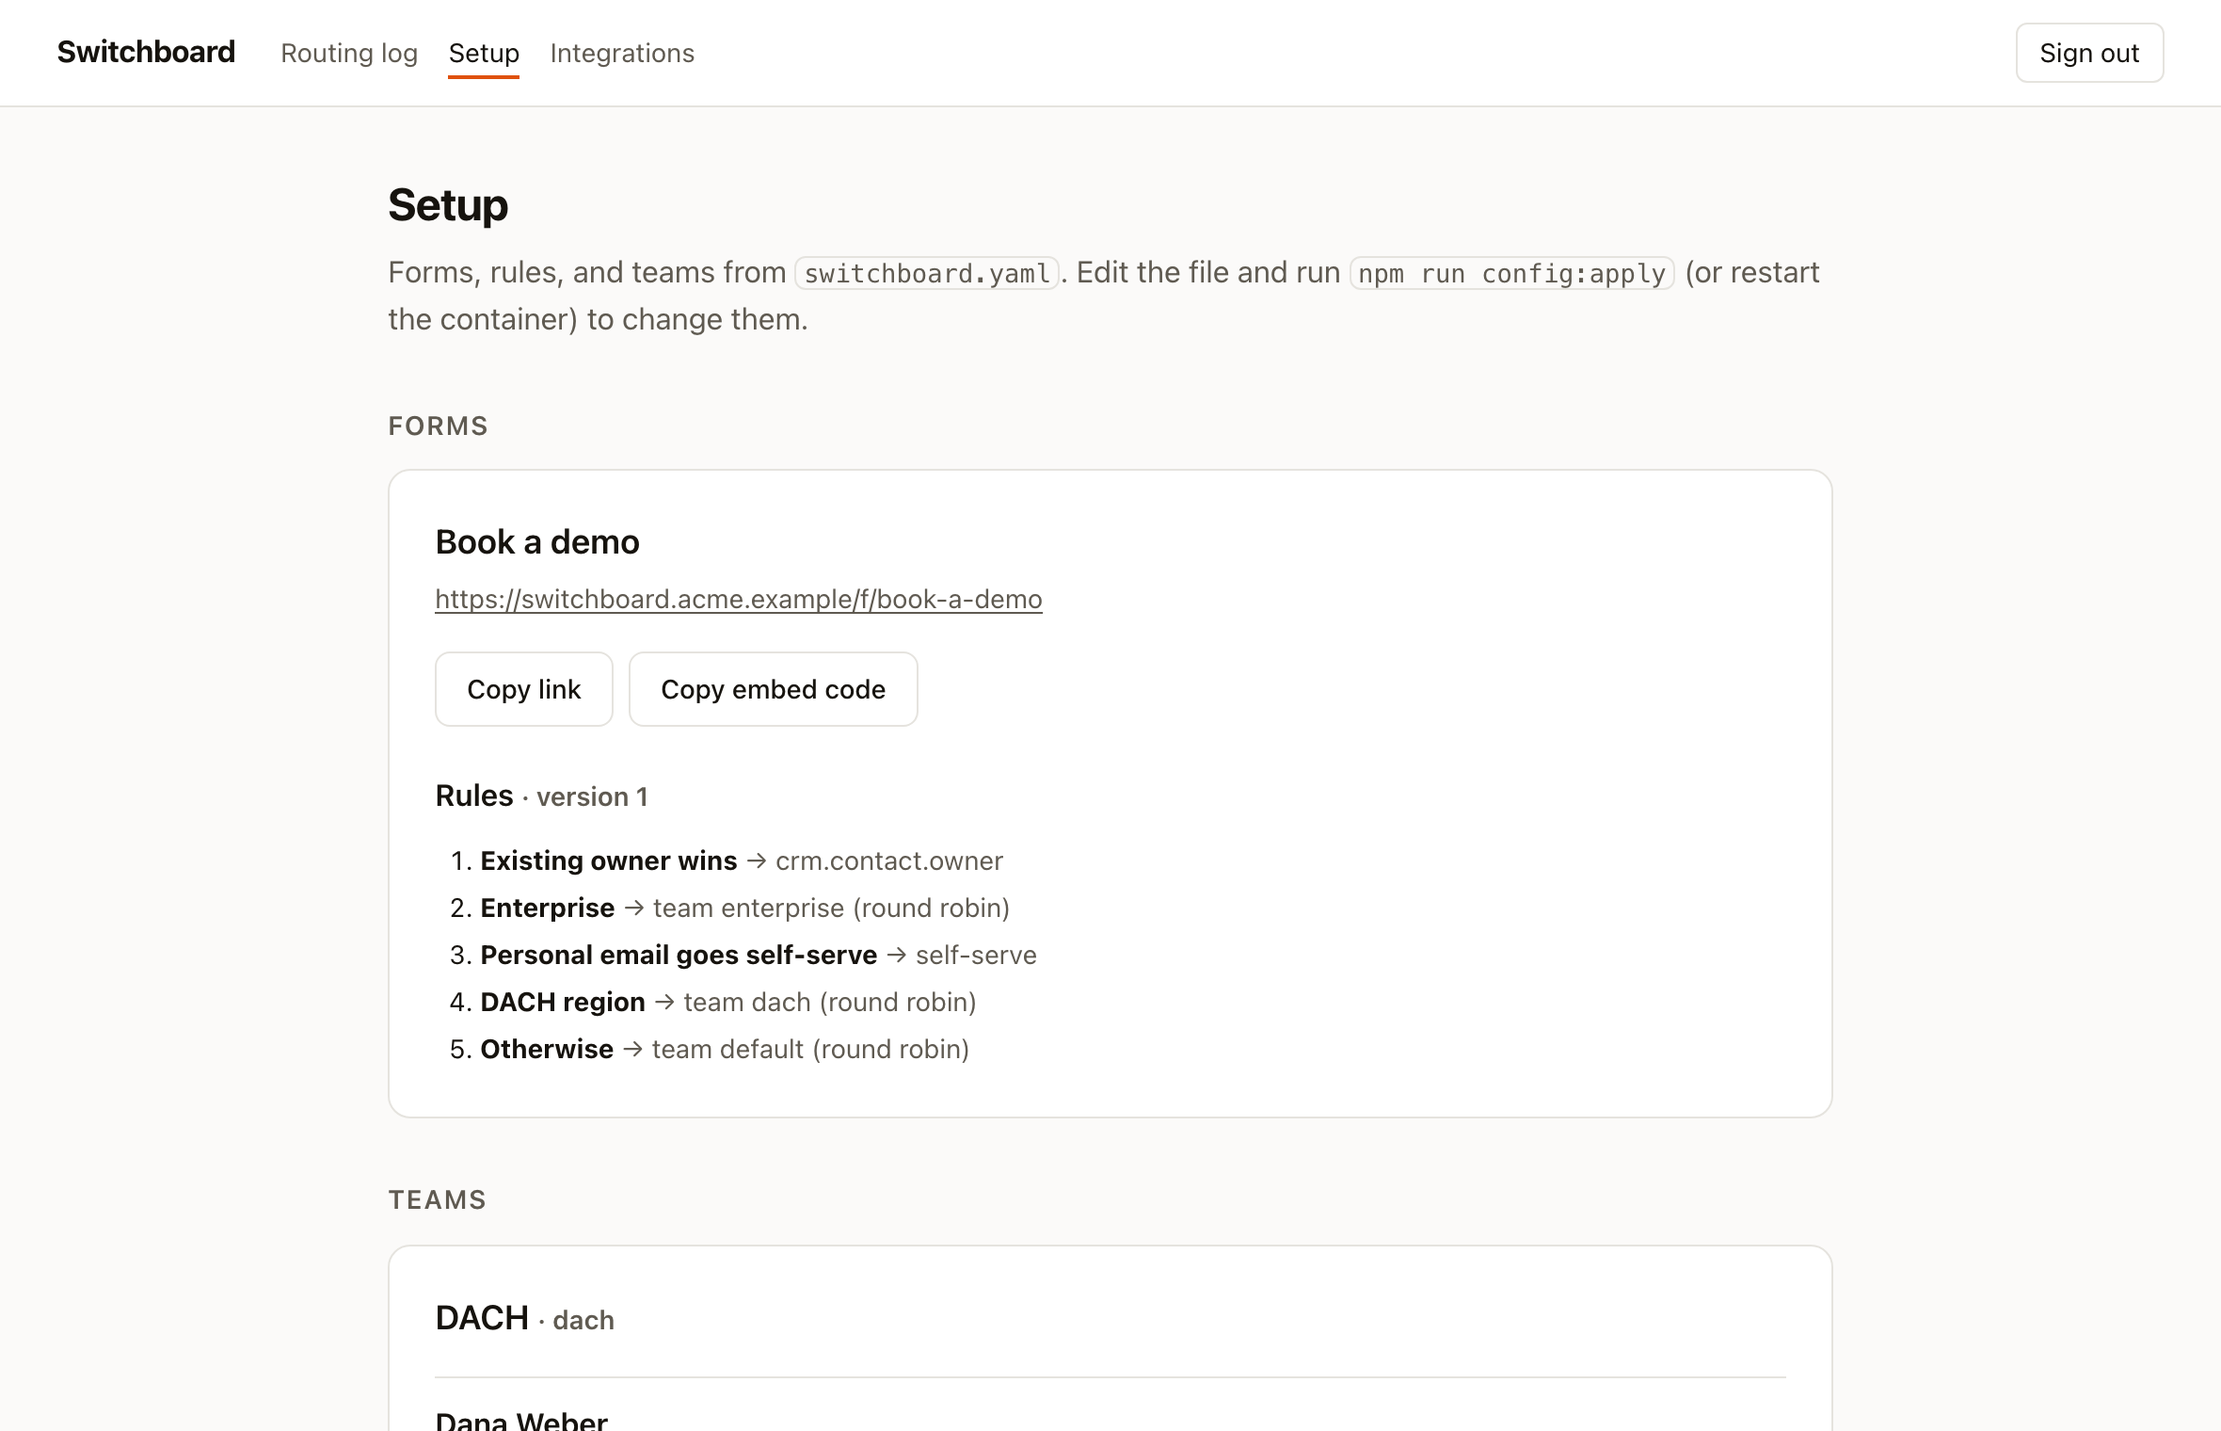
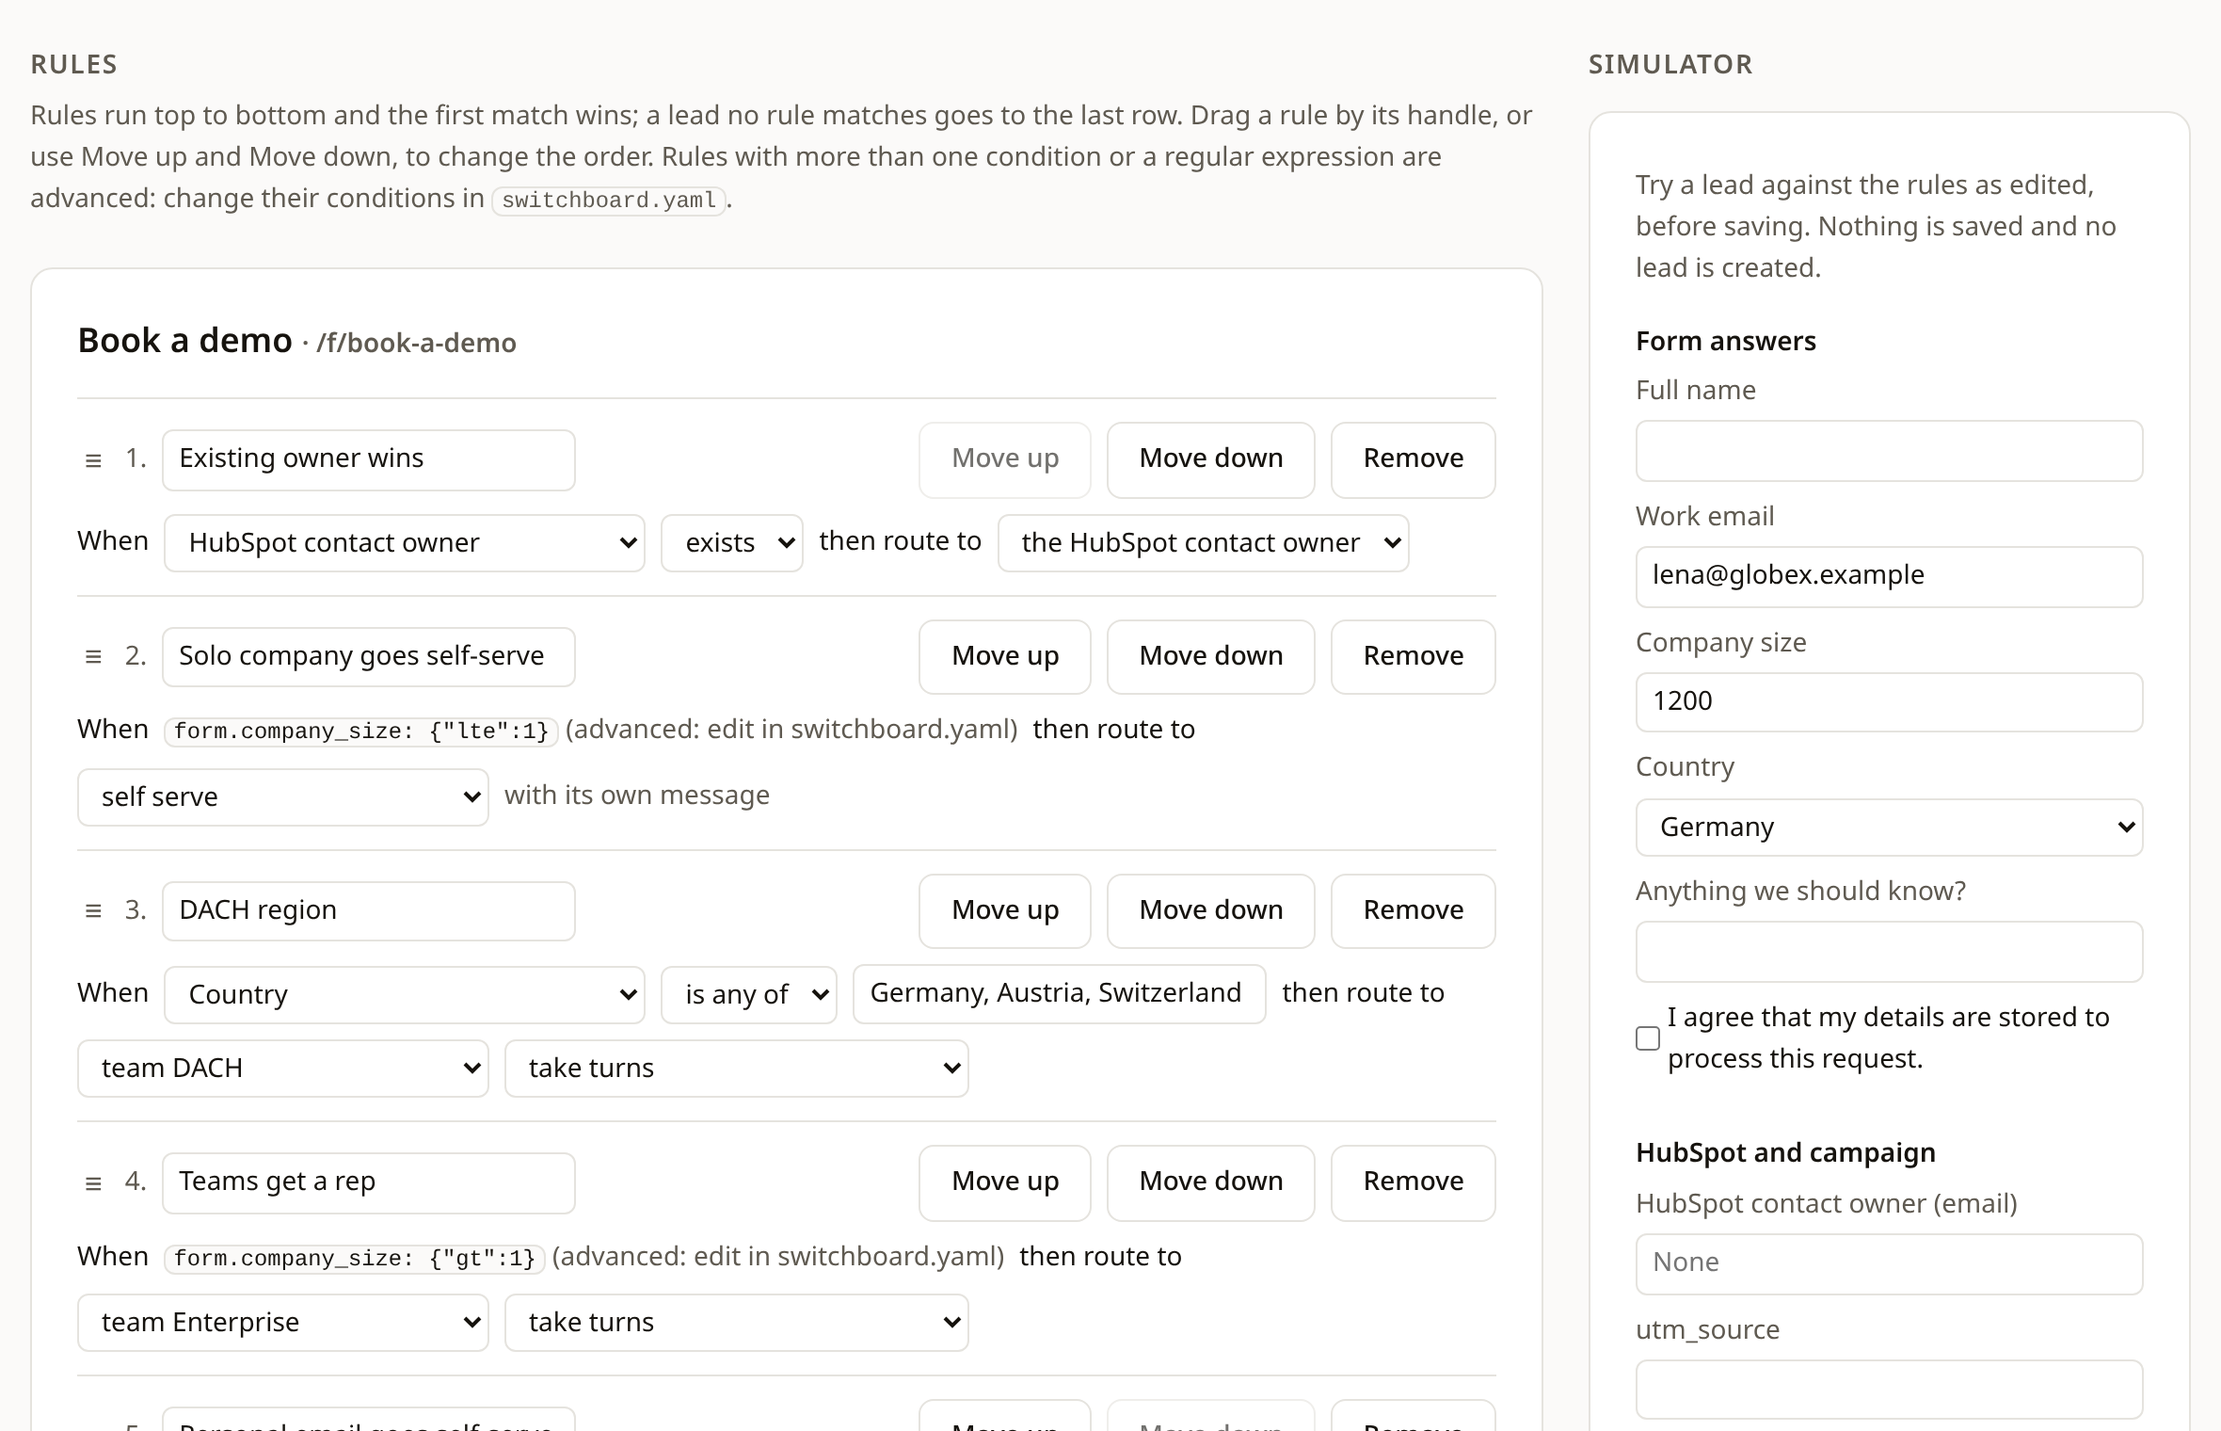
Update site and docs for builder-based setup

diff --git a/apps/web/src/app/page.tsx b/apps/web/src/app/page.tsx
@@ -65,7 +65,7 @@ const displayFont = Instrument_Sans({
 const STEPS = [
   {
     title: "Qualify",
-    body: "A lead fills in your form. Rules you keep in git read the answers, and your CRM, and decide who should talk to them.",
+    body: "A lead fills in your form. Rules you write as sentences on the Setup page read the answers, and your CRM, and decide who should talk to them.",
     visual: <QualifyVisual />,
   },
   {
@@ -80,18 +80,19 @@ const STEPS = [
   },
 ];
 
-const RULES_EXCERPT = `rules:
-  - name: Existing owner wins
-    when: { crm.contact.owner: exists }
-    route: { to: crm.contact.owner }
+const RULES_EXCERPT = `1. Existing owner wins
+   When HubSpot contact owner exists
+   then route to the HubSpot contact owner
 
-  - name: Solo company goes self-serve
-    when: { form.company_size: { lte: 1 } }
-    route: { action: self_serve_link, message: "…" }
+2. DACH region
+   When Country is any of Germany, Austria, Switzerland
+   then route to team DACH, take turns
 
-  - name: Teams get a rep
-    when: { form.company_size: { gt: 1 } }
-    route: { team: enterprise, strategy: round_robin }`;
+3. Teams get a rep
+   When Company size is at least 2
+   then route to team Enterprise, take turns
+
+Otherwise route to team Sales, take turns`;
 
 
 
@@ -178,7 +179,7 @@ export default async function Home() {
         <div className={styles.proofInner}>
           <p>
             Apache-2.0 · Self-hosted · Works with HubSpot and Google Calendar
-            · Rules in YAML, kept in git
+            · Set up in the app, exported as YAML for review in git
           </p>
         </div>
       </section>
@@ -251,8 +252,9 @@ export default async function Home() {
               <div>
                 <h3 className={styles.siteStepTitle}>Set the rules once</h3>
                 <p className={styles.siteStepBody}>
-                  Done with whoever looks after your site. After that, forms,
-                  reps, and schedules are yours to change.
+                  Pick reps from your HubSpot owners, write the rules as
+                  sentences, try a test lead in the simulator, and apply.
+                  You can change any of it later on the same page.
                 </p>
                 <p className={styles.logChip}>
                   <code>Teams get a rep → Alice Chen · 31 ms</code>
@@ -267,13 +269,16 @@ export default async function Home() {
         <div className={styles.darkInner}>
           <div className={styles.darkText}>
             <h2 className={styles.darkTitle}>
-              Routing rules live in one YAML file.
+              Routing rules are written as sentences.
             </h2>
             <p className={styles.darkBody}>
-              Your rules sit in a single YAML file in your repo, changed the
-              way you change code. For every lead, Switchboard checks them
-              in order, top to bottom. The routing log then shows which rule
-              fired, which rep got the lead, and how long the decision took.
+              You write each rule on the Setup page as a sentence, try a test
+              lead in the simulator, and review the changes before you apply
+              them. For every lead, Switchboard checks the rules in order, top
+              to bottom. The routing log then shows which rule fired, which
+              rep got the lead, and how long the decision took. Underneath,
+              the rules are saved as YAML, which you can download to review
+              and keep in git.
             </p>
           </div>
           <div className={styles.codeStack}>

diff --git a/README.md b/README.md
@@ -7,8 +7,9 @@ Switchboard is an open-source, self-hosted alternative to inbound routing
 tools like Chili Piper. A lead fills in your demo form. Your rules pick the rep
 using the form answers and HubSpot. As soon as the lead submits, the form
 turns into that rep's open times from their Google Calendar, and the lead
-books without leaving the page. You keep the rules in a YAML file in git,
-and you pay nothing per seat.
+books without leaving the page. You set up reps, teams, forms, and rules on
+the Setup page in the app, and you can download the whole setup as a YAML
+file to keep in git. You pay nothing per seat.
 
 [![CI](https://github.com/Preetish/switchboard/actions/workflows/ci.yml/badge.svg)](https://github.com/Preetish/switchboard/actions/workflows/ci.yml)
 [![License: Apache-2.0](https://img.shields.io/badge/license-Apache--2.0-blue.svg)](LICENSE)
@@ -74,8 +75,48 @@ gets `switchboard_submitted` and `switchboard_booked` events in the GTM
 
 ## Set it up for your team
 
-You describe your reps, teams, forms, and rules in one file and review
-changes to it like code:
+You set Switchboard up on the **Setup** page in the app. Sign in, then:
+
+1. Open `/integrations` and connect HubSpot once for the whole org.
+2. Open **Setup**. Start from a template (B2B SaaS demo, Territory split,
+   Paid campaign fast lane, or Blank) or from the setup you already have.
+3. Add reps by picking them from your HubSpot owners (or type an email), set
+   their working hours, and put them in teams with weights, weekly caps, and
+   pauses.
+4. Edit each form's fields and theme in the form builder: accent color,
+   background, corner radius, light or dark, layout, and font. A switch sets
+   the routed rep as the lead's HubSpot contact owner.
+5. Write the rules as sentences, such as "When Country is any of Germany,
+   Austria, Switzerland then route to team DACH, take turns", and drag them
+   into order. The last row catches every lead no rule matches.
+6. Try a test lead in the simulator beside the rules. It shows where the lead
+   goes and which rules it tried, without saving anything.
+7. Select **Save changes**, read the review of what changes (in words and as
+   a YAML diff), then select **Apply changes**. **Roll back last save** undoes
+   the last save.
+8. Back on `/integrations`, send each rep a link to connect their own Google
+   Calendar.
+
+<p align="center">
+  <img src="docs/images/5-setup.png" width="90%" alt="The Setup page: rules written as sentences, with the simulator beside them">
+</p>
+
+Switchboard checks the whole setup before it saves anything, and tells you
+where a problem is. The Setup page also shows each form's link, embed code,
+and a live preview of the saved form; see
+[Matching your site](docs/embed.md#matching-your-site).
+
+The Setup page editors appear once the instance has a form. With Docker, the
+demo gives you one to start from. The container loads the demo again on every
+start while `SEED_DEMO_DATA` is `true` (the compose default) and there is no
+`config/switchboard.yaml`, which replaces your Setup page changes. Set
+`SEED_DEMO_DATA=false` in `.env` once you start editing.
+
+### Keep the config in git instead
+
+Underneath, the setup is one `switchboard.yaml` file, and **Download YAML** on
+the Setup page exports it at any time. If you would rather review changes like
+code, keep that file in git and apply it:
 
 ```yaml
 # config/switchboard.yaml
@@ -114,18 +155,14 @@ If you make a mistake, Switchboard tells you where it is before any lead hits
 it, for example:
 `forms[0] (book-a-demo) rules rules[1] (DACH): team "dach" is not defined in teams`.
 
-Add a `theme` to match your site: accent color, corner radius, font, light or
-dark, and a borderless layout that blends into your page. The Setup page shows
-a live preview of each form. See [Matching your site](docs/embed.md#matching-your-site).
-
-Then open `/integrations`. You send each rep a link to connect their own
-Google Calendar, and you connect HubSpot once for the whole org.
+Applying the file replaces changes made on the Setup page, so if you use both,
+download the YAML after each save on the Setup page and commit it.
 
 ## Documentation
 
 | Guide | Covers |
 | --- | --- |
-| [Configuration](docs/configuration.md) | `switchboard.yaml`, rule operators, how reps are picked |
+| [Configuration](docs/configuration.md) | The Setup page, `switchboard.yaml`, rule operators, how reps are picked |
 | [Self-hosting](docs/self-hosting.md) | Deploying, environment variables, Google and HubSpot apps, HTTPS, upgrades |
 | [Embedding](docs/embed.md) | Putting the form on your site, matching your brand, tracking campaigns |
 | [Building your own form](docs/custom-form.md) | Using the API with your own markup |

diff --git a/docs/configuration.md b/docs/configuration.md
@@ -1,8 +1,51 @@
-# Configuration: `switchboard.yaml`
+# Configuration
 
-Your reps, teams, forms, and routing rules live in one YAML file. Start from
-[`switchboard.example.yaml`](../switchboard.example.yaml); the demo setup is
-[`examples/switchboard.demo.yaml`](../examples/switchboard.demo.yaml).
+Your reps, teams, forms, and routing rules make up one config. You can edit
+it on the Setup page in the app, or keep it as a `switchboard.yaml` file and
+apply it from the command line. Both change the same config.
+
+## The Setup page
+
+Sign in and open **Setup** (`/setup`). Its editors change the same config
+that `switchboard.yaml` describes:
+
+| Editor | What it changes | In the file |
+| --- | --- | --- |
+| Templates | Fills the draft with a ready-made setup: placeholder reps, teams, and the first form's fields and rules | All of it |
+| Reps and teams | Reps (picked from your HubSpot owners or typed), time zones, working hours, team members, weights, weekly caps, and pauses | [`reps`](#reps), [`teams`](#teams) |
+| Form builder | Form name, submit label, self serve URL, fields, theme, and the HubSpot contact owner switch | [`forms`](#forms), [`theme`](#theme-optional) |
+| Rules | Each form's rules as sentences, their order, and the fallback | [Rules](#rules) |
+| Simulator | Nothing: it routes a test lead through the rules as edited, without saving or creating a lead | None |
+
+**Save changes** runs the same checks as `npm run config:check` on the whole
+config and shows a review of what changes, in words and as a YAML diff.
+**Apply changes** writes it the same way `config:apply` does, in one
+transaction, and nothing is saved while any check fails. **Roll back last
+save** applies the config as it was before your last save.
+
+**Download YAML** exports the current config as a `switchboard.yaml`, with
+rules written inline, at any time.
+
+Some settings can only change in the file: adding, renaming, or removing a
+team (other than by loading a template), new forms and form slugs, `org`, the
+`hubspot` property mapping, `customCss`, and rule conditions a sentence can't
+express. A sentence has one condition and offers "is", "is any of", "is at
+least", "contains", and "exists"; a rule with more conditions or another
+operator, such as `lt`, `neq`, or `matches`, keeps its conditions as written,
+and you can still rename it, move it, and change its route. The Setup page
+keeps all of these as they are when you save.
+
+The editors appear once the instance has at least one form, from the demo
+or an applied file. Applying a file later replaces changes made on the Setup
+page, so if you keep `switchboard.yaml` in git, download the YAML after each
+save and commit it. With Docker, the file (or the demo, while
+`SEED_DEMO_DATA=true` and there is no file) is applied on every container
+start.
+
+## The file: `switchboard.yaml`
+
+Start from [`switchboard.example.yaml`](../switchboard.example.yaml); the demo
+setup is [`examples/switchboard.demo.yaml`](../examples/switchboard.demo.yaml).
 
 ```bash
 npm run config:check -- config/switchboard.yaml   # validate only, no database

diff --git a/docs/embed.md b/docs/embed.md
@@ -144,8 +144,11 @@ frame-src  https://switchboard.yourcompany.com;
 The form runs in an iframe, so your page's CSS can't reach it (which also
 means it can't break it). You style it with a theme instead.
 
-**Set a theme in `switchboard.yaml`** for every form, and override it per
-form ([reference](configuration.md#theme-optional)):
+**Set a theme in the form builder on the Setup page.** The default theme
+applies to every form, and each form can override any setting: accent color,
+page background, corner radius, color scheme, layout, and font. Save changes
+to apply it. In `switchboard.yaml` the same settings are the top-level `theme`
+and each form's `theme` ([reference](configuration.md#theme-optional)):
 
 ```yaml
 theme:
@@ -178,9 +181,10 @@ the same values, except fonts:
 The embed snippet's settings win over the form's, and the form's win over
 the top-level theme. Invalid values are ignored rather than breaking the form.
 
-**Check it on the Setup page.** Each form shows a live preview with its
-theme, in light and dark if it follows the visitor's setting. The preview
-can't submit, so you can click around freely.
+**Check it on the Setup page.** Each form shows a live preview of the saved
+form with its theme, in light and dark if it follows the visitor's setting,
+so save your theme changes to see them there. The preview can't submit, so
+you can click around freely.
 
 A few things to know:
 

diff --git a/docs/self-hosting.md b/docs/self-hosting.md
@@ -28,6 +28,14 @@ On first start the container:
    file and `SEED_DEMO_DATA=true`, the compose default);
 4. starts the app on port 3000 with a healthcheck at `/api/health`.
 
+To set Switchboard up on the Setup page instead of in a file, start without
+`config/switchboard.yaml`, sign in, and edit the demo setup at `/setup`. Set
+`SEED_DEMO_DATA=false` in `.env` before the next restart, because the demo is
+loaded again on every start while it is `true`, and that replaces your Setup
+page changes. The same goes for `config/switchboard.yaml`: when it exists, it
+is applied on every start, so download the YAML from the Setup page after each
+save if you keep both.
+
 Compose uses the published image `ghcr.io/preetish/switchboard` when it
 exists and builds from your checkout otherwise. Pin a version with
 `SWITCHBOARD_VERSION=0.1.0`.
@@ -38,7 +46,8 @@ Postgres is not published on the host. For local development,
 
 ## Configuration reference
 
-Your reps, teams, forms, and rules go in `switchboard.yaml` (see
+You set up your reps, teams, forms, and rules on the Setup page in the app,
+or in a `switchboard.yaml` file that you keep in git (see
 [configuration.md](configuration.md)). Everything else is an environment
 variable (compose reads `.env`; see [`.env.example`](../.env.example)).
 

diff --git a/CHANGELOG.md b/CHANGELOG.md
@@ -48,6 +48,17 @@ Notable changes to Switchboard. The format follows
   owner of the lead's contact. Otherwise the contact keeps its current owner,
   and the lead is never held up.
 
+### Changed
+
+- The home page, the README, and the docs now describe setting Switchboard up
+  on the Setup page: connect HubSpot, pick reps, write rules as sentences,
+  try a test lead in the simulator, and apply. They describe
+  `switchboard.yaml` as the format underneath that you can download, review,
+  and keep in git, and they explain when applying the file or loading the
+  demo replaces Setup page changes. The Setup page screenshot now shows the
+  rule builder beside the simulator, and `scripts/screenshots.mjs` works with
+  the form's country dropdown again.
+
 ## [0.2.1] — 2026-11-01
 
 ### Changed
